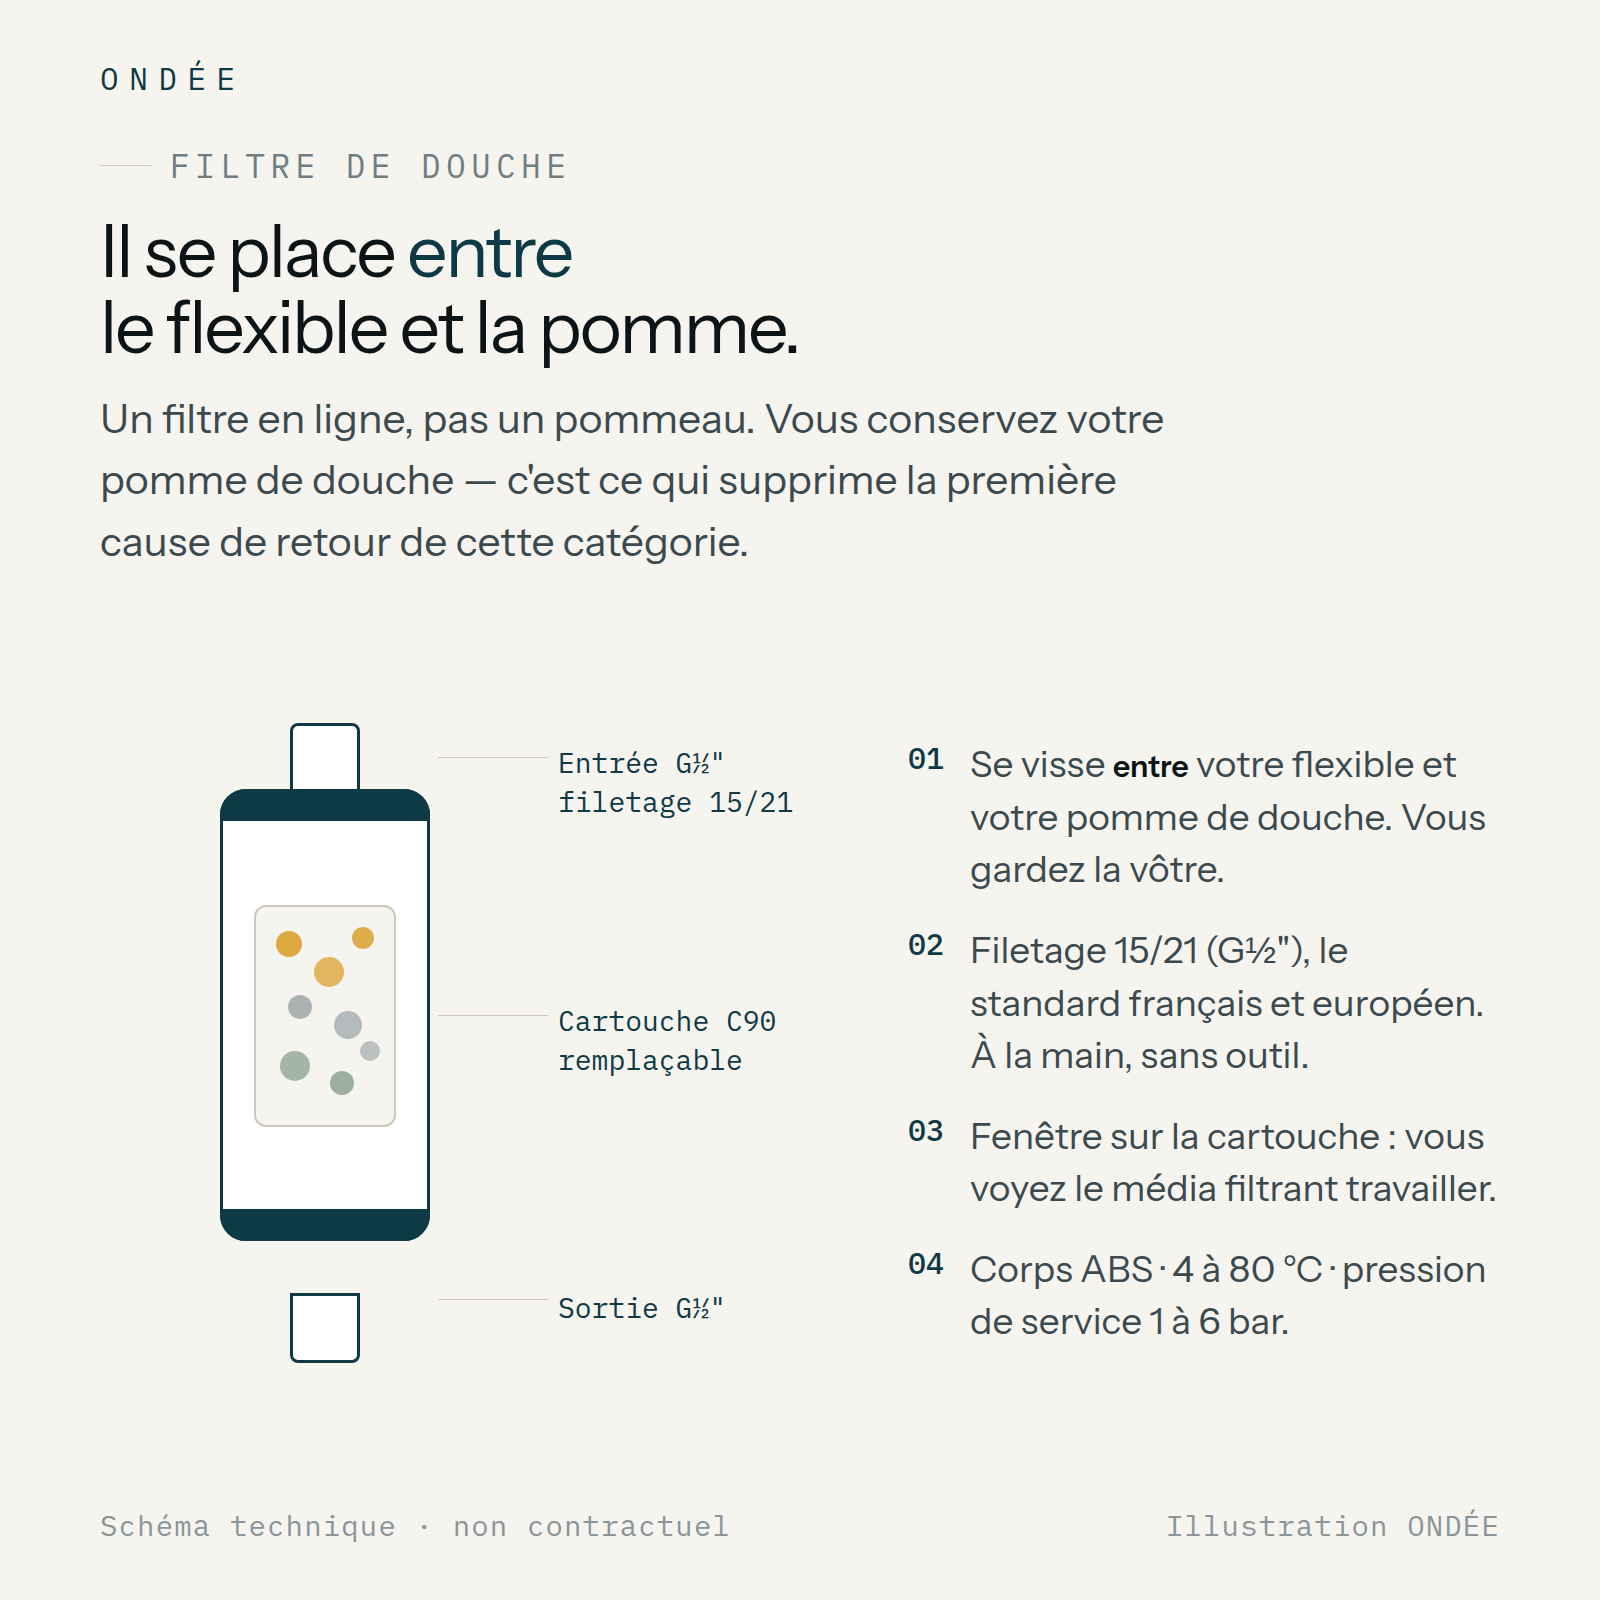
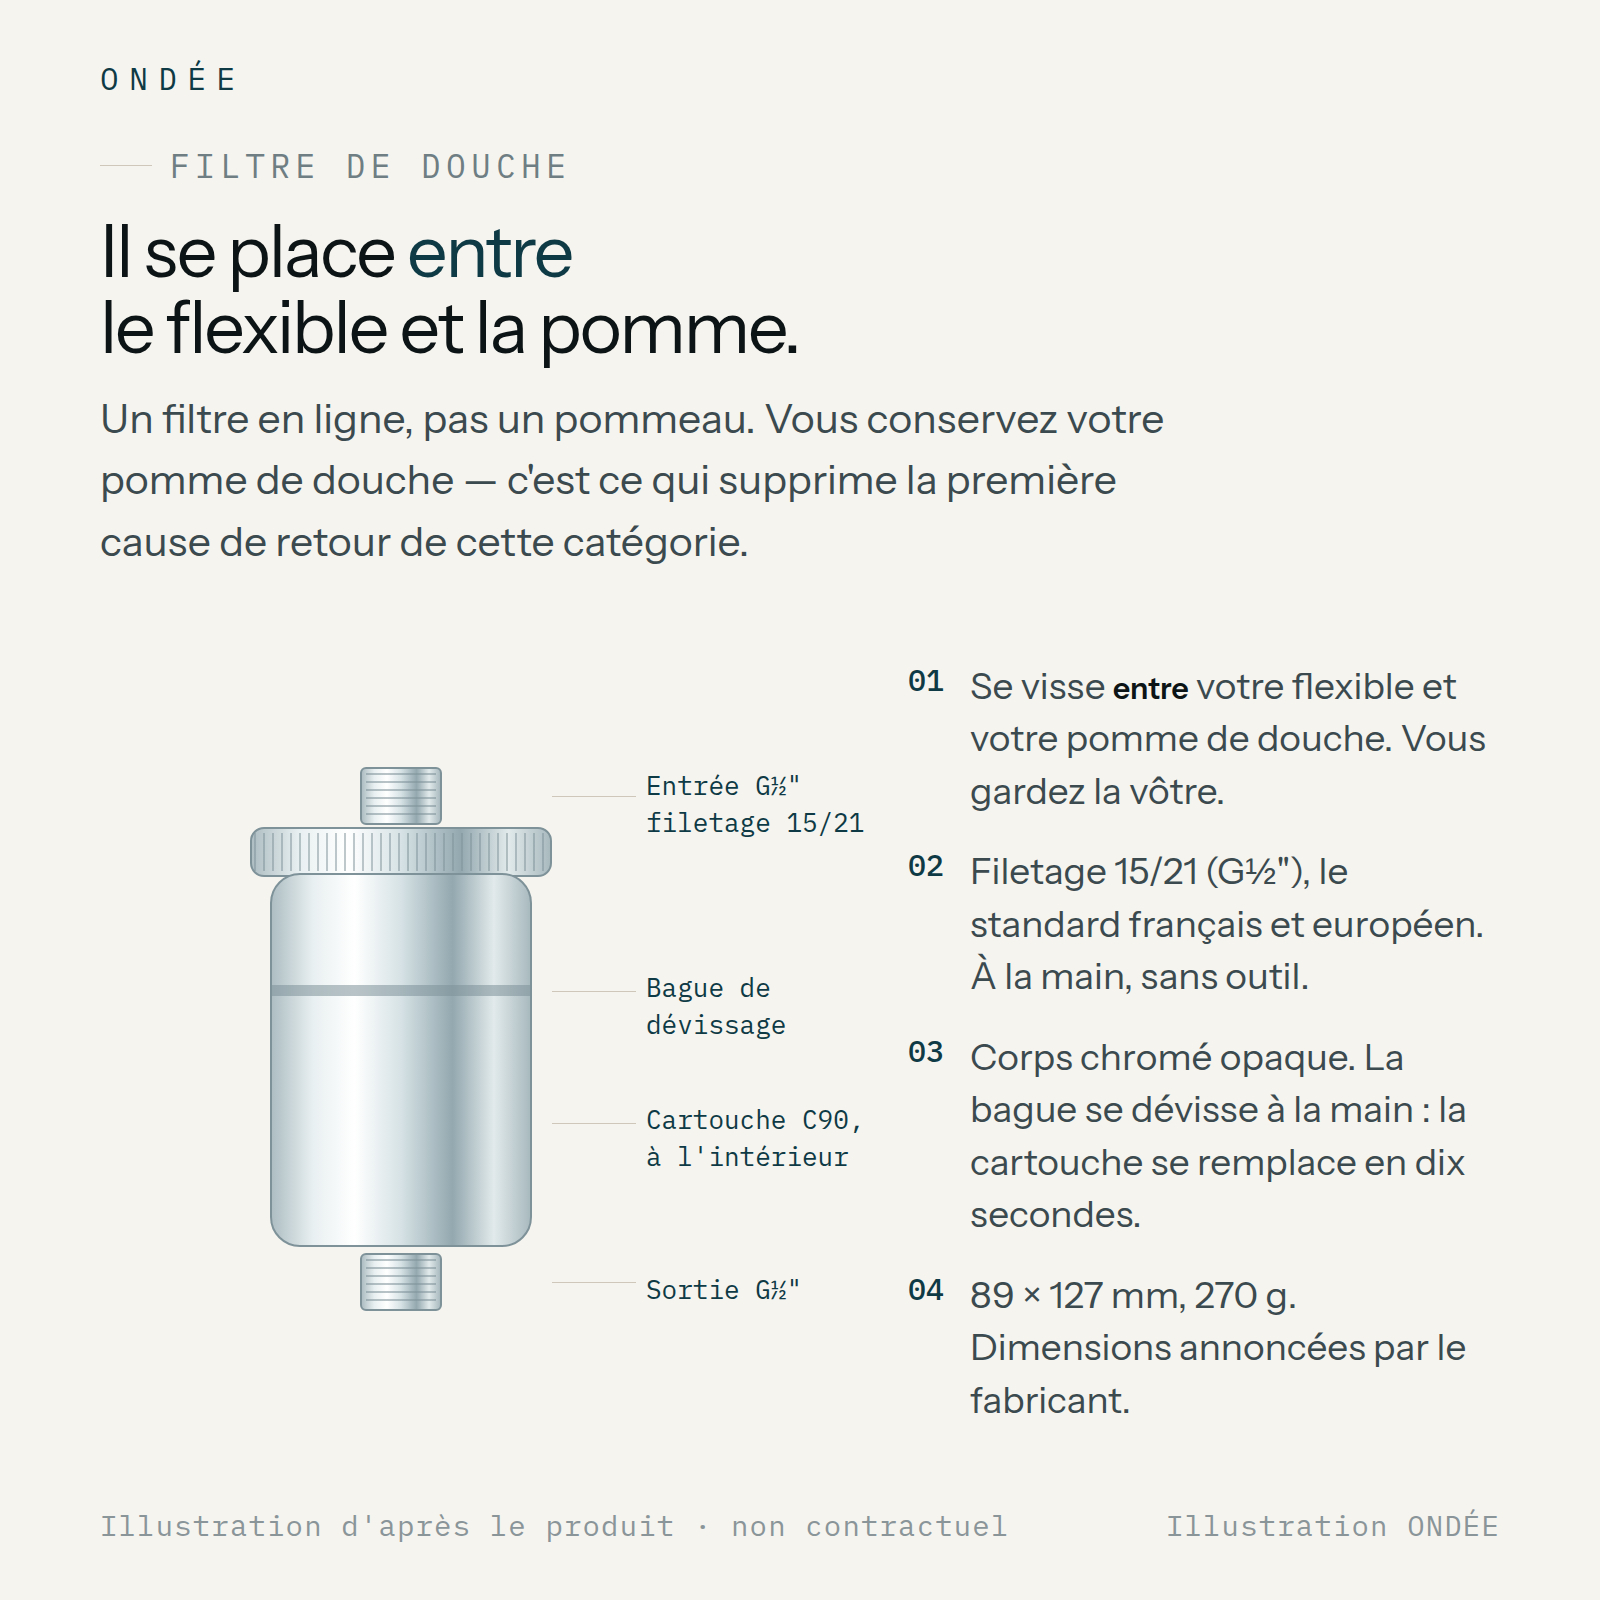
ONDÉE — le site décrivait un produit qui n'existe pas : corrigé d'après le produit réel
En cherchant des photographies utilisables, j'ai ouvert les visuels que Calux
publie de son filtre de douche. Ils montrent un produit sensiblement différent de
celui que le site décrit.

Ce que le produit est réellement
- Un cylindre entièrement chromé et OPAQUE, avec une collerette moletée à
  l'entrée, une bague de dévissage au tiers du corps, et deux raccords femelles
  filetés.
- La cartouche est un cylindre de plastique blanc opaque, à l'intérieur.
- La boîte contient le corps, la cartouche, deux joints blancs et une notice.

Ce que le site prétendait, et qui est faux
- « Cartouche visible · on voit le filtre travailler », étiquette du visuel
  principal de la page d'accueil.
- « Fenêtre sur la cartouche : vous voyez le média filtrant travailler », légende
  de l'illustration principale de la fiche produit.
- L'illustration elle-même dessinait un boîtier à hublot laissant voir des
  granulés colorés. Il n'y a pas de hublot.
- La fiche annonçait un corps ABS ; le produit est chromé.

Corrections
- L'illustration principale est redessinée d'après le produit réel : proportions
  89 x 127 mm, corps chromé opaque, collerette moletée, bague de dévissage,
  raccords filetés G½". Plus aucun hublot, plus aucun granulé visible.
- La légende 03 devient « Corps chromé opaque. La bague se dévisse à la main :
  la cartouche se remplace en dix secondes. »
- La légende 04 ne cite plus de plage de pression non sourcée : elle donne les
  dimensions annoncées par le fabricant.
[…]

diff --git a/.visuels/filtre-01-schema.html b/.visuels/filtre-01-schema.html
@@ -23,12 +23,16 @@ h1 em{font-style:normal;color:#0E3A45}
 
 .sc{display:grid;grid-template-columns:760px 1fr;gap:48px;align-items:center}
 .dess{position:relative;width:740px;height:640px}
-.corpsf{position:absolute;left:120px;top:66px;width:210px;height:452px;border:3px solid #0E3A45;border-radius:26px;background:#fff}
-.bague{position:absolute;left:120px;width:210px;height:32px;background:#0E3A45}
-.fen{position:absolute;left:154px;top:182px;width:142px;height:222px;border:2px solid #CFC8BA;border-radius:12px;background:#F6F4EF;overflow:hidden}
-.gr{position:absolute;border-radius:50%}
-.fil{position:absolute;left:190px;width:70px;height:70px;border:3px solid #0E3A45;background:#fff}
-.cote{position:absolute;font-family:'PM';font-size:28px;color:#0E3A45;white-space:nowrap;line-height:1.4}
+.chrome{background:linear-gradient(90deg,#AEBEC3 0%,#E9F0F1 16%,#FFFFFF 32%,#D6E2E5 50%,#93A8AF 70%,#E2EAEB 86%,#A9BABF 100%)}
+.corpsf{position:absolute;left:170px;top:150px;width:262px;height:374px;border:2px solid #7E9299;border-radius:30px}
+.bague{position:absolute;left:170px;top:262px;width:262px;height:11px;background:#7E9299;opacity:.55}
+.collier{position:absolute;left:150px;top:104px;width:302px;height:50px;border:2px solid #7E9299;border-radius:14px}
+.moletage{position:absolute;left:154px;top:110px;width:294px;height:38px;
+  background:repeating-linear-gradient(90deg,#7E9299 0 2px,transparent 2px 9px);opacity:.5}
+.fil{position:absolute;left:260px;width:82px;height:58px;border:2px solid #7E9299;border-radius:6px}
+.filet{position:absolute;left:266px;width:70px;height:46px;
+  background:repeating-linear-gradient(180deg,#7E9299 0 2px,transparent 2px 8px);opacity:.55}
+.cote{position:absolute;font-family:'PM';font-size:26px;color:#0E3A45;line-height:1.42;width:250px}
 .trait{position:absolute;background:#CFC8BA;height:1px}
 .leg{display:grid;gap:28px}
 .leg div{display:grid;grid-template-columns:44px 1fr;gap:18px;align-items:start}
@@ -41,34 +45,29 @@ h1 em{font-style:normal;color:#0E3A45}
 <div class="corps">
 <div class="sc">
   <div class="dess">
-    <div class="fil" style="top:0;border-radius:8px 8px 0 0"></div>
-    <div class="corpsf"></div>
-    <div class="bague" style="top:66px;border-radius:26px 26px 0 0"></div>
-    <div class="bague" style="top:486px;border-radius:0 0 26px 26px"></div>
-    <div class="fen">
-      <div class="gr" style="left:20px;top:24px;width:26px;height:26px;background:#D89B22;opacity:.85"></div>
-      <div class="gr" style="left:58px;top:50px;width:30px;height:30px;background:#D89B22;opacity:.7"></div>
-      <div class="gr" style="left:96px;top:20px;width:22px;height:22px;background:#D89B22;opacity:.8"></div>
-      <div class="gr" style="left:32px;top:88px;width:24px;height:24px;background:#8A9599;opacity:.7"></div>
-      <div class="gr" style="left:78px;top:104px;width:28px;height:28px;background:#8A9599;opacity:.6"></div>
-      <div class="gr" style="left:24px;top:144px;width:30px;height:30px;background:#3D6B4A;opacity:.45"></div>
-      <div class="gr" style="left:74px;top:164px;width:24px;height:24px;background:#3D6B4A;opacity:.5"></div>
-      <div class="gr" style="left:104px;top:134px;width:20px;height:20px;background:#8A9599;opacity:.55"></div>
-    </div>
-    <div class="fil" style="bottom:0;border-radius:0 0 8px 8px"></div>
-    <div class="trait" style="left:338px;top:34px;width:110px"></div>
-    <div class="cote" style="left:458px;top:20px">Entrée G½&quot;<br>filetage 15/21</div>
-    <div class="trait" style="left:338px;top:292px;width:110px"></div>
-    <div class="cote" style="left:458px;top:278px">Cartouche C90<br>remplaçable</div>
-    <div class="trait" style="left:338px;top:576px;width:110px"></div>
-    <div class="cote" style="left:458px;top:565px">Sortie G½&quot;</div>
+    <div class="fil chrome" style="top:44px"></div>
+    <div class="filet" style="top:50px"></div>
+    <div class="collier chrome"></div>
+    <div class="moletage"></div>
+    <div class="corpsf chrome"></div>
+    <div class="bague"></div>
+    <div class="fil chrome" style="top:530px"></div>
+    <div class="filet" style="top:536px"></div>
+    <div class="trait" style="left:452px;top:73px;width:84px"></div>
+    <div class="cote" style="left:546px;top:44px">Entrée G½&quot;<br>filetage 15/21</div>
+    <div class="trait" style="left:452px;top:268px;width:84px"></div>
+    <div class="cote" style="left:546px;top:246px">Bague de dévissage</div>
+    <div class="trait" style="left:452px;top:400px;width:84px"></div>
+    <div class="cote" style="left:546px;top:378px">Cartouche C90,<br>à l'intérieur</div>
+    <div class="trait" style="left:452px;top:559px;width:84px"></div>
+    <div class="cote" style="left:546px;top:548px">Sortie G½&quot;</div>
   </div>
   <div class="leg">
     <div><b>01</b><span>Se visse <b style="font-family:inherit;color:#0D1416;font-weight:600">entre</b> votre flexible et votre pomme de douche. Vous gardez la vôtre.</span></div>
     <div><b>02</b><span>Filetage 15/21 (G½&quot;), le standard français et européen. À la main, sans outil.</span></div>
-    <div><b>03</b><span>Fenêtre sur la cartouche : vous voyez le média filtrant travailler.</span></div>
-    <div><b>04</b><span>Corps ABS · 4 à 80 °C · pression de service 1 à 6 bar.</span></div>
+    <div><b>03</b><span>Corps chromé opaque. La bague se dévisse à la main : la cartouche se remplace en dix secondes.</span></div>
+    <div><b>04</b><span>89 × 127 mm, 270 g. Dimensions annoncées par le fabricant.</span></div>
   </div>
 </div>
 </div>
-<div class="pied"><span>Schéma technique · non contractuel</span><span>Illustration ONDÉE</span></div></body></html>
+<div class="pied"><span>Illustration d'après le produit · non contractuel</span><span>Illustration ONDÉE</span></div></body></html>

diff --git a/.visuels/filtre-05-contenu.html b/.visuels/filtre-05-contenu.html
@@ -33,7 +33,7 @@ h1 em{font-style:normal;color:#0E3A45}
 <div class="corps">
 <div class="gr4">
   <div class="c"><div class="v"><div class="bx" style="width:56px;height:104px;background:#F6F4EF"></div></div>
-    <div><h3>Le filtre</h3><p>Corps ABS, raccords G½&quot;, joints montés</p></div></div>
+    <div><h3>Le filtre</h3><p>Corps chromé, raccords G½&quot;, 2 joints fournis</p></div></div>
   <div class="c"><div class="v"><div class="bx" style="width:52px;height:92px;background:#fff;border-color:#8A9599"></div></div>
     <div><h3>1 cartouche C90</h3><p>Avec une case à dater au feutre</p></div></div>
   <div class="c"><div class="v"><div style="display:flex;gap:10px">
